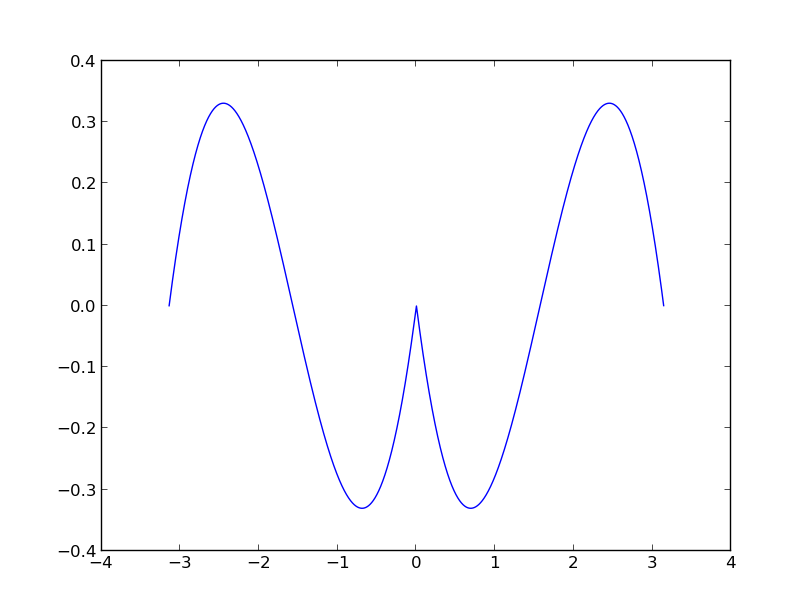
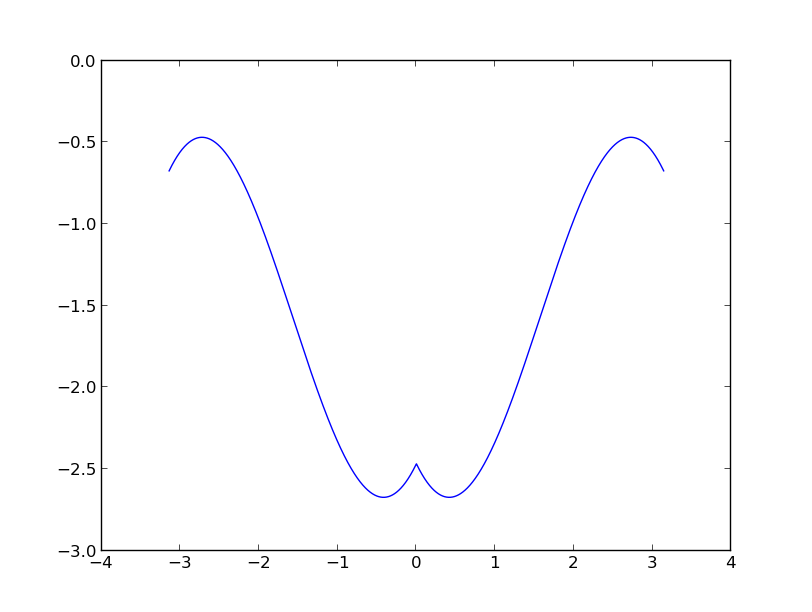
correct case in discrete_trig_ls when n=m, added main funciton to discrete_trig_ls module and a corrected plot.

diff --git a/hw4/discrete_trig_ls.py b/hw4/discrete_trig_ls.py
@@ -47,15 +47,32 @@ def bk_list(xj_list, yj_list, m, n):
         bk_list.append(summation / m)
     return bk_list
 
-def s_trig_poly(x, n, ak_list, bk_list):
+def s_trig_poly(line, n, ak_list, bk_list):
     """
     Given the a and b constants, construct the least squares trig
     approximation.
     """
-    summation = 0
-    for k in range(1, n):
-        summation += ak_list[k] * math.cos(k*x) + bk_list[k] * math.sin(k*x)
-    return .5*ak_list[0] + ak_list[-1]*math.cos(n*x) + summation
+    data = []
+    for x in line:
+        summation = 0
+        if n+1 != len(ak_list):
+            for k in range(1, n):
+                summation += ak_list[k] * math.cos(k*x) + bk_list[k] * math.sin(k*x)
+            data.append(.5*ak_list[0] + ak_list[-1]*math.cos(n*x) + summation)
+        else:
+            for k in range(1, n):
+                summation += ak_list[k] * math.cos(k*x) + bk_list[k] * math.sin(k*x)
+            data.append(.5*(ak_list[0] + ak_list[-1]*math.cos(n*x))*summation)
+    return data
+
+def main(t, f, m, n=None, low=-math.pi, high=math.pi):
+    if n is None: 
+        n = m
+    xl = xj_list(m)
+    yl = yj_list(f, xl)
+    al = ak_list(xl, yl, m, n)
+    bl = bk_list(xl, yl, m, n)
+    return s_trig_poly(t, n, al, bl)
 
 if __name__=='__main__':
     pass
